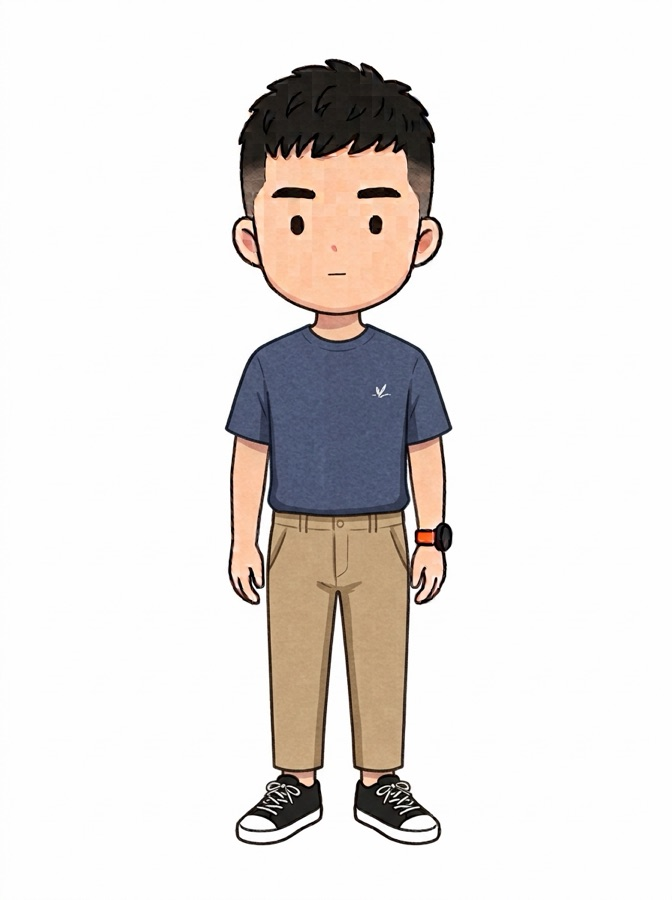
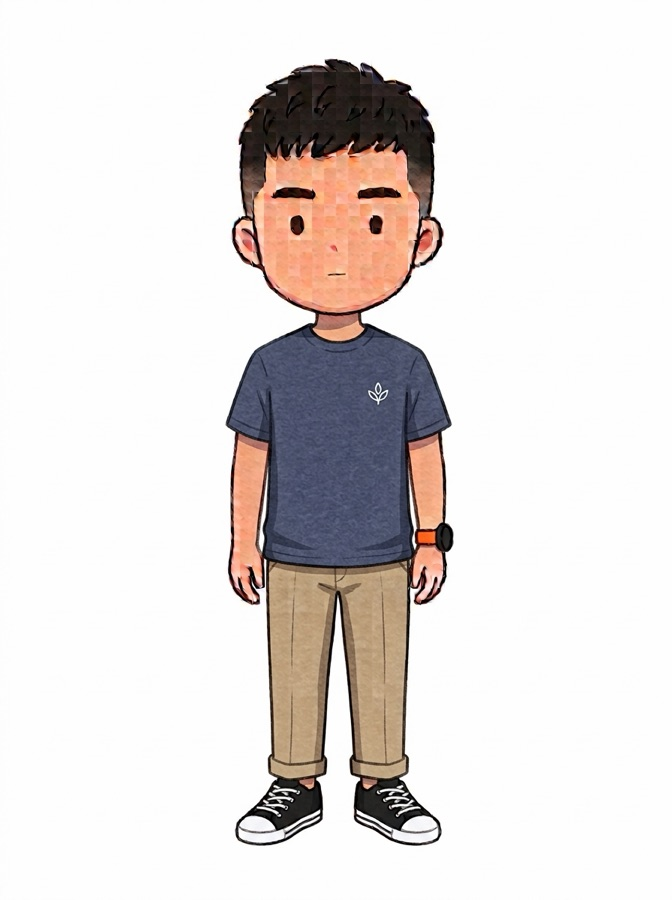
B、C、K 重繪為不紮衣版本

diff --git a/index.html b/index.html
@@ -1,5 +1,5 @@
 <!doctype html>
-<html lang="zh-Hant" data-v="27">
+<html lang="zh-Hant" data-v="28">
 <head>
 <meta charset="utf-8">
 <meta name="viewport" content="width=device-width, initial-scale=1, viewport-fit=cover">
